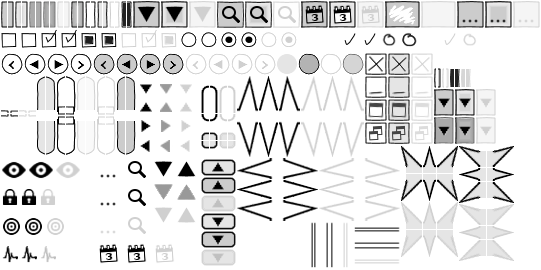
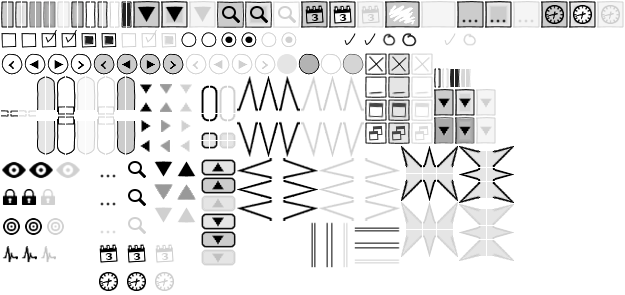
- added wfrEditTime - added wfrMaskEdit

diff --git a/src/ng_wireframe/wireframe.js b/src/ng_wireframe/wireframe.js
@@ -18,7 +18,7 @@ if(typeof ngUserControls === 'undefined') ngUserControls = new Array();
  */
 var WireframeControls = {
   ControlImages: [
-    'wireframe_base.png?3',
+    'wireframe_base.png?4',
     'wireframe_h.png?3',
     'wireframe_v.png?3',
     'wireframe_dot.gif?3'
@@ -90,6 +90,10 @@ var WireframeControls = {
         Bottom: { L: 0, T: 325, H: 2, DT: 378, Src: 1 },
         RightBottom: { L: 7, T: 115, W: 2, H: 2, DL: 24 }
       }
+    },
+
+    Time: {
+      EditButton: {L: 541, T: 1, oL: 569, DL: 597, W: 27, H: 27 },
     },
 
     ColorPreview: { L: 385, T: 1, DL: 421, W: 35, H: 27},
@@ -365,7 +369,8 @@ var WireframeControls = {
     PulseIcon:   { L: 1, T: 241, W: 18, H: 27, oL: 20, DL: 39 },
     ElipsisIcon: { L: 95, T: 156, W: 27, H: 27, oT: 184, DT: 212 },
     SearchIcon:  { L: 123, T: 156, W: 27, H: 27, oT: 184, DT: 212 },
-    CalendarIcon: { L: 95, T: 240, W: 27, H: 27, oL: 123, DL: 151 }
+    CalendarIcon: { L: 95, T: 240, W: 27, H: 27, oL: 123, DL: 151 },
+    ClockIcon: { L: 95, T: 268, W: 27, H: 27, oL: 123, DL: 151 }
   },
 
   OnControlCreated: function(def,c) {
@@ -746,6 +751,92 @@ var WireframeControls = {
     ngRegisterControlType('wfrColorEditBox', function(def,ref,parent){
       return Create_wfrColorEdit(def,ref,parent);
     });
+
+    /*  Class: wfrMaskEdit
+     *  "Wireframe" skin mask edit control (based on <ngMaskEdit>).
+     */
+    function Create_wfrMaskEdit(def, ref, parent)
+    {
+      if (typeof(def.Data)==='undefined') def.Data = new Object();
+      var invalid = ngVal(def.Data.Invalid, false);
+
+      if(typeof def.className === 'undefined'){
+        def.className = 'wfrMaskEdit';
+      }
+
+      delete def.H;
+      ng_MergeDef(def, {
+        H: WFRImages.Edit.MiddleImg.H,
+        Data: {
+          LeftDef: {
+            W: WFRImages.Edit.LeftImg.W,
+            Data: {
+              LeftImg: (invalid ? WFRImages.Edit.LeftImgReq : WFRImages.Edit.LeftImg),
+              MiddleImg: (invalid ? WFRImages.Edit.MiddleImgReq : WFRImages.Edit.MiddleImg),
+              RightImg: null
+            }
+          },
+          EditDef: {
+            Type: 'wfrEdit',
+            Data: {
+              LeftImg: null,
+              MiddleImg: (invalid ? WFRImages.Edit.MiddleImgReq : WFRImages.Edit.MiddleImg),
+              RightImg: null
+            }
+          },
+          StaticDef: {
+            Type: 'wfrLabel',
+            Data: {
+              MiddleImg: (invalid ? WFRImages.Edit.MiddleImgReq : WFRImages.Edit.MiddleImg)
+            }
+          },
+          RightDef: {
+            W: WFRImages.Edit.RightImg.W,
+            Data: {
+              LeftImg: null,
+              MiddleImg: (invalid ? WFRImages.Edit.MiddleImgReq : WFRImages.Edit.MiddleImg),
+              RightImg: (invalid ? WFRImages.Edit.RightImgReq : WFRImages.Edit.RightImg)
+            }
+          }
+        }
+      });
+
+      var c = ngCreateControlAsType(def, 'ngMaskEdit', ref, parent);
+      if (!c) return c;
+
+      c.DoInvalid = function (ctrl, state, update) {
+        if (typeof(ctrl)==='undefined') return false;
+        state  = ngVal(state, true);
+        update = ngVal(update, true);
+
+        if (!state)
+        {
+          if (ctrl.LeftImg)   ctrl.LeftImg   = WFRImages.Edit.LeftImg;
+          if (ctrl.MiddleImg) ctrl.MiddleImg = WFRImages.Edit.MiddleImg;
+          if (ctrl.RightImg)  ctrl.RightImg  = WFRImages.Edit.RightImg;
+        } else
+        {
+          if (ctrl.LeftImg)   ctrl.LeftImg   = WFRImages.Edit.LeftImgReq;
+          if (ctrl.MiddleImg) ctrl.MiddleImg = WFRImages.Edit.MiddleImgReq;
+          if (ctrl.RightImg)  ctrl.RightImg  = WFRImages.Edit.RightImgReq;
+        }
+
+        ctrl.Elm().className = (!state) ? ctrl.BaseClassName : ctrl.BaseClassName+' '+ctrl.BaseClassName+'_Invalid';
+
+        if (update)
+        {
+          if (ctrl.LeftImg)   ngc_ChangeImage(ngpg_ImgDrawProps(ctrl.ID+'_IL', 0, ctrl.Enabled, ctrl.LeftImg));
+          if (ctrl.MiddleImg) ngc_ChangeImageS(ngpg_ImgDrawProps(ctrl.ID+'_IM', 0, ctrl.Enabled, ctrl.MiddleImg));
+          if (ctrl.RightImg)  ngc_ChangeImage(ngpg_ImgDrawProps(ctrl.ID+'_IR', 0, ctrl.Enabled, ctrl.RightImg));
+        }
+
+        return true;
+      }
+
+      return c;
+    }
+    ngRegisterControlType('wfrMaskEdit', function(def,ref,parent) { return Create_wfrMaskEdit(def,ref,parent); });
+    ngRegisterControlType('wfrMaskEditBox', function(def,ref,parent) { return Create_wfrMaskEdit(def,ref,parent); });
 
     /** Class: wfrDropDown
      *  "Wireframe" skin drop down control (based on <ngDropDown>).
@@ -1321,7 +1412,7 @@ var WireframeControls = {
         return c;
       });
 
-      /** Class: stdEditDate
+      /** Class: wfrEditDate
        *  "Wireframe" skin edit date control (based on <ngEditDate>).
        */
       function Create_wfrEditDate(def,ref,parent,basetype) {
@@ -1342,6 +1433,63 @@ var WireframeControls = {
 
       ngRegisterControlType('wfrEditDate', function(def,ref,parent){
         return Create_wfrEditDate(def,ref,parent);
+      });
+
+      /** Class: wfrEditTime
+       *  "Wireframe" skin edit time control (based on <ngEditDate>).
+       */
+      function Create_wfrEditTime(def,ref,parent,basetype) {
+        var div=1;
+        ng_MergeDef(def, {
+          className: 'wfrEdit',
+          Data: {},
+          Events: {
+            OnDropDown: function (e,l) {
+              if(!l.Items.length)
+              {
+                l.BeginUpdate();
+                var items=[];
+                for(var i=0;i<24;i++)
+                  for(var j=0;j<60;j+=div)
+                  {
+                    var d=new Date(0,0,0,i,j,0);
+                    items.push({Text:ng_FormatTime(d,ng_TimeFormat(false,true)),Time:d});
+                  }
+                l.AddItems(items);
+                l.EndUpdate();
+              }
+              return true;
+            },
+            OnListItemChanged: function(e,l,it,oit) {
+              e.SetDate(it.Time);
+              if(e.HideDropDown) e.HideDropDown();
+              return false;
+            }
+          },
+          DropDown: {
+            className: 'wfrDropDown',
+            Type: 'wfrList'
+          }
+        });
+        div=ngVal(def.DropDown.HourDivider,2);
+        if(div<=0) div=1;
+        div=60/div;
+        var c=ngCreateControlAsType(def, ngVal(basetype,'ngEditTime'), ref, parent);
+        if(!c) return c;
+
+        if(def.Type == 'ngDropDownList') c.DropDownType=ngeDropDownList;
+        ngDropDown_Add(c);
+
+        WFR.wfrEdit_AddProperties(c);
+        c.DropDownButton.LeftImg = WFRImages.Time.EditButton;
+        c.DropDownButton.Default = false;
+        c.RightImg = null;
+        if(typeof def.DropDown.className === 'undefined') def.DropDown.className='wfrDropDown';
+        return c;
+      }
+
+      ngRegisterControlType('wfrEditTime', function(def,ref,parent){
+        return Create_wfrEditTime(def,ref,parent);
       });
     }
 

diff --git a/src/ng_wireframe/wireframe.css b/src/ng_wireframe/wireframe.css
@@ -285,6 +285,20 @@
   color: #ffffff;
 }
 
+/* wfrMaskEdit ********************************************************************/
+
+.wfrMaskEdit .wfrLabelText
+{
+  line-height: 17px;
+  margin-top: 4px;
+  padding-right: 1px;
+}
+
+.wfrMaskEdit .wfrLabel_Invalid .wfrLabelText
+{
+  color: #ffffff;
+}
+
 /* wfrListBox *****************************************************************/
 
 .wfrListBox
